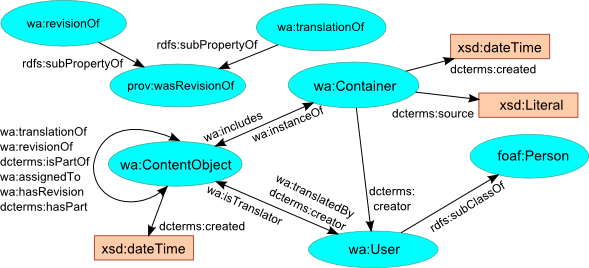
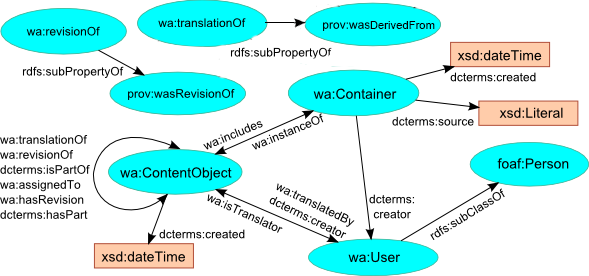
minor

diff --git a/thesis/MAIN_THESIS.tex b/thesis/MAIN_THESIS.tex
@@ -577,7 +577,7 @@ In this manner the content versions in different languages can be (semi-)automat
 \epigraph{(...) people need to be creative. They want to be able to record what they think. They want to be able to, if they see something wrong go and fix it.}{Tim Berners-Lee}
 
 
-\todo{generous introduction}
+\todo{introduction}
 
 In the chapter we give an overview of the technologies and paradigms underlying our research.
 Namely, we discuss crowdsourcing, social networking and wiki technology.
@@ -2650,8 +2650,7 @@ The property defines the many to one relationship between two content objects.
 Its common usage includes the assigning comments, notes or questions to other content objects.
 \end{itemize}
   
-\todo{change the picture: wa:translationOf - subproperty of prov:wasDerivedFrom, wa:revisionOf = prov:wasRevisionOf}
- 
+
 \begin{figure}[htb]
 	\centering
 		\includegraphics[width=\textwidth]{images/wa_ontology.png}
@@ -3135,8 +3134,6 @@ When compare with the existing approaches, the advantages of the proposed algori
 \section{Limitations of the Implementation and Description of the Next Generation}
 \label{slidewiki_limitations}
 
-\todo{Say that it is not all so bad as it looks =)}
-
 In order to evaluate the implementation we have conducted three usability studies.
 The first two in form of user survey aimed to evaluate the usability of the system at different stages of development. 
 The third one in form of single-user observation aimed to define bugs and particular UI issues.
@@ -3503,8 +3500,7 @@ As shown in ~\autoref{fig:slidewiki2_architecture}, the new architecture relies 
 The main benefit of the microservice architecture is that it dramatically improves agility and velocity.
 This is because when our system is correctly decomposed into a set of microservices and their dependent data schemas, we can develop and deploy each microservice independently and in parallel with the other services.
 In order to enhance the interoperability, the proposed 3-tier architecture uses JSON as the communication language between user interface, services and data layer.
-
-Apart from improved performance, the proposed architecture facilitates the maintaining of the SlideWiki's code due to the component-based attitude of ReactJS.
+Apart from the improved performance, the proposed architecture facilitates the maintaining of the SlideWiki's code due to the component-based attitude of ReactJS.
 
 %Since the initial SlideWiki design new approaches for enabling access to a web-site from various mobile devices have appeared.
 %Contrary to the previous approaches, when web-sites usually had to provide separate interface for mobile device users, nowadays the responsive web design(RWD) approach is preferred.
